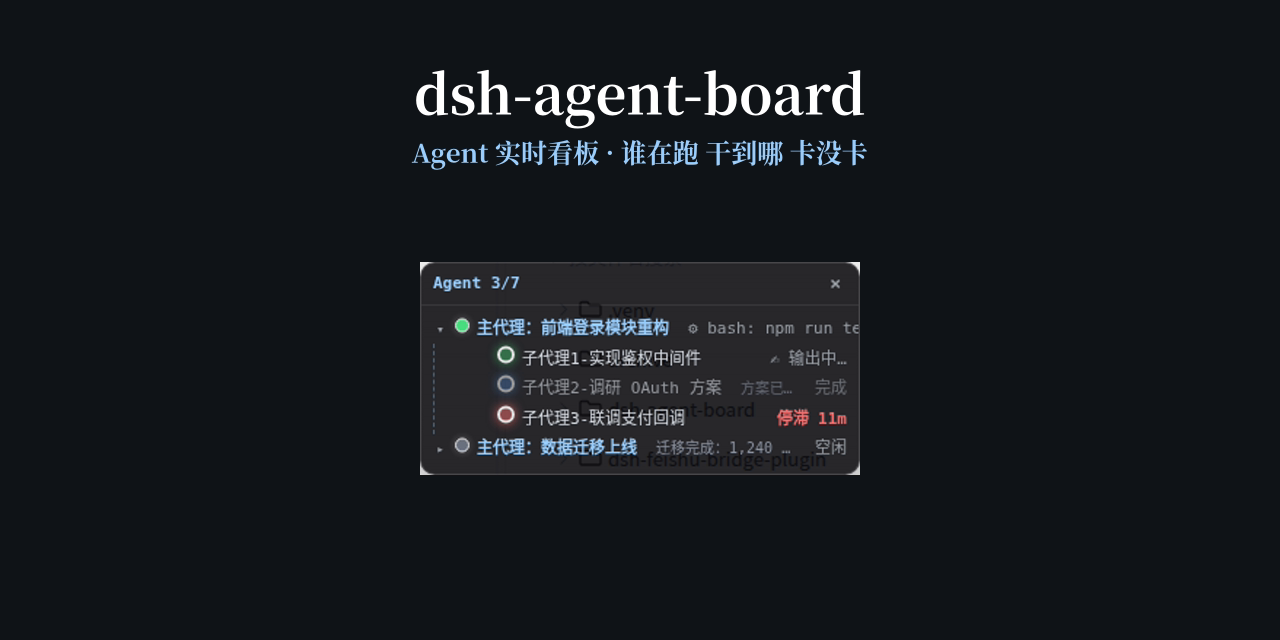
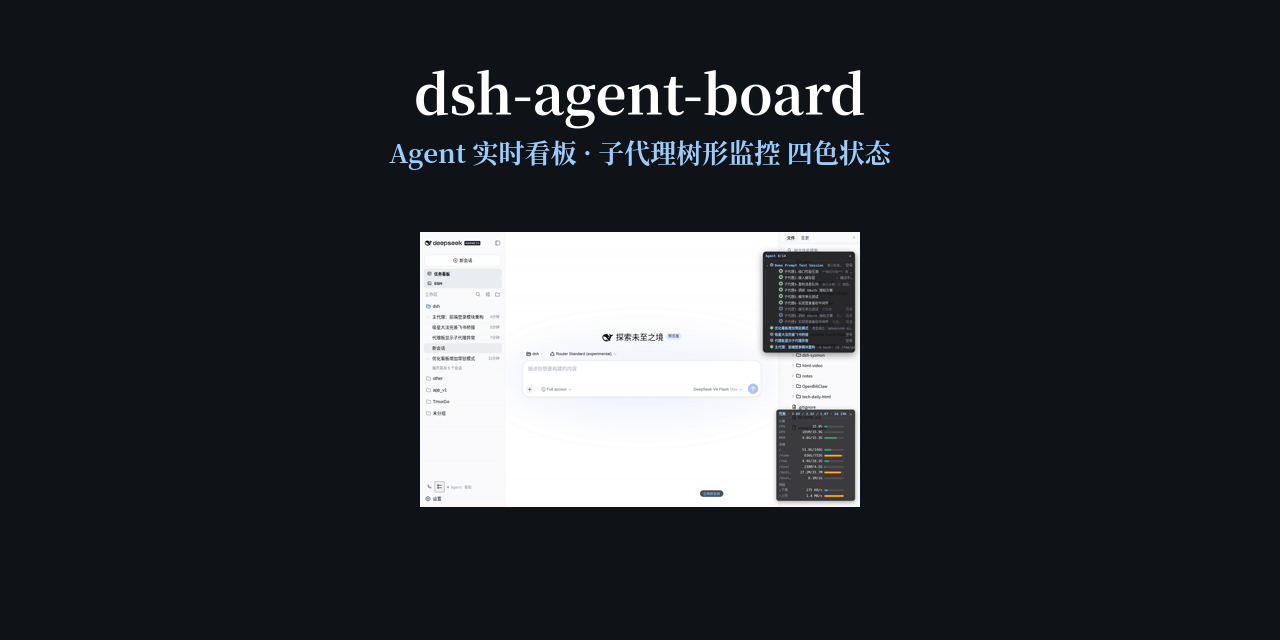
docs: 截图改为真实场景——演示会话派子代理，展示树形层级与生命周期三态

Changed region(s): [[0.3125, 0.3438, 0.6875, 0.8125], [0.3125, 0.2188, 0.6875, 0.2812]]

diff --git a/README.md b/README.md
@@ -12,7 +12,11 @@
 
 ---
 
-![Agent 看板悬浮窗：绿=working / 蓝=完成 / 灰=已读空闲 / 红=停滞](docs/screenshots/agent-board-widget.png)
+![Agent 看板：树形子代理实时监控（绿=working / 蓝=完成 / 灰=已读空闲 / 红=停滞）](docs/screenshots/agent-board-widget.png)
+
+*生命周期演示：子代理运行中（绿）→ 完成（蓝）→ 双击打开后转空闲（灰）*
+
+![完成态](docs/screenshots/agent-board-done.png) ![已读态](docs/screenshots/agent-board-read.png)
 
 ## ✨ 特性
 
